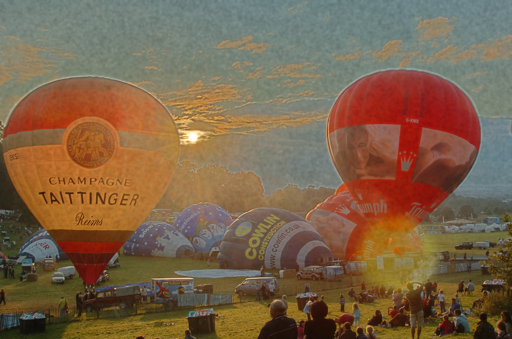
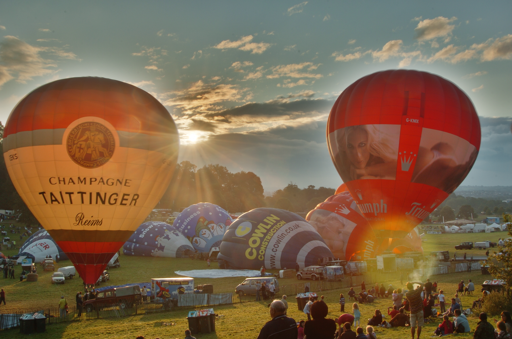
exposure fusion 到此为止, 下一步 bayers matting 和 grrab-cut

diff --git a/exposure_fusion/src/exposure_fusion.py b/exposure_fusion/src/exposure_fusion.py
@@ -11,107 +11,111 @@ import numpy
 
 
 def cv_show(image, message="crane"):
-    cv2.imshow(message, image)
-    cv2.waitKey(0)
-    cv2.destroyAllWindows()
+	cv2.imshow(message, image)
+	cv2.waitKey(0)
+	cv2.destroyAllWindows()
 
 
 
 
 def exposure_fusion(sequence, alphas=(1.0, 1.0, 1.0), best_illumination=0.5, sigma=0.2, eps=1e-12, 
-        use_lappyr=True, use_gaussi=False, layers_num=5, scale=2.0):
-    # 转化成 float 数据
-    sequence = numpy.stack([it.astype("float32") / 255 for it in sequence], axis=0)
-    S = len(sequence)
-    H, W, C = sequence[0].shape
-    # 准备一些中间变量
-    laplace_kernel = numpy.array(([0,  1, 0], [1, -4, 1], [0,  1, 0]), dtype="float32")
-    mse = lambda l, r: (l - r) * (l - r)
-    best_illumination = numpy.full((H, W), best_illumination, dtype='float32')
-    # 存放每张图像的权重图
-    weights = []
-    # 每张图像都求一个初始权重
-    for s in range(S):
-        # 从拉普拉斯求对比度
-        gray = cv2.cvtColor(sequence[s], cv2.COLOR_BGR2GRAY)
-        contrast = cv2.filter2D(gray, -1, laplace_kernel, borderType=cv2.BORDER_REPLICATE)
-        contrast = numpy.abs(contrast)
-        # 求饱和度
-        mean = numpy.mean(sequence[s], axis=-1)
-        saturation = numpy.sqrt(numpy.mean([mse(sequence[s][:, :, ch], mean) for ch in range(3)], axis=0))
-        # 求亮度
-        illumination = [numpy.exp(-0.5 * mse(sequence[s][:, :, ch], best_illumination) / (sigma * sigma)) for ch in range(3)]
-        illumination = numpy.prod(illumination, axis=0)
-        # 三者加权
-        cur_weight = numpy.power(contrast, alphas[0]) * numpy.power(saturation, alphas[1]) * numpy.power(illumination, alphas[2])
-        weights.append(cur_weight)
-    # 归一化
-    weights = numpy.stack(weights, axis=0)
-    weights += eps
-    weights_sum = numpy.sum(weights, axis=0)
-    weights /= numpy.expand_dims(weights_sum, axis=0)
-    # 这里要把 sequence 还原回来
-    sequence *= 255;
-    # 粗糙的融合
-    origin_fusion = numpy.sum(numpy.stack([weights, weights, weights], axis=-1) * sequence, axis=0)
-    origin_fusion = numpy.clip(origin_fusion, 0, 255).astype("uint8")
-    results = {"naive": origin_fusion}
-    # 是否用高斯
-    if(use_gaussi == True):
-        # 使用高斯模糊对 weights 做模糊
-        smoothed_weights = numpy.stack([cv2.GaussianBlur(w, (7, 7), 1.0) for w in weights], axis=0)
-        smoothed_fusion = numpy.sum(numpy.stack([smoothed_weights, smoothed_weights, smoothed_weights], axis=-1) * sequence, axis=0)
-        smoothed_fusion = numpy.clip(smoothed_fusion, 0, 255).astype("uint8")
-        results.update({"gaussi_smoothed": smoothed_fusion})
-    # 是否用拉普拉斯
-    if(use_lappyr == True):
-        # 根据最高分辨率的图像 high_res, 得到高度 layers 的高斯金字塔
-        def build_gaussi_pyramid(high_res, layers):
-            this_flash = [high_res]
-            for i in range(1, layers):
-                # 先对当前权重做高斯模糊, 然后下采样
-                blurred = cv2.GaussianBlur(this_flash[i - 1], (5, 5), 0.83)
-                blurred = blurred[::2, ::2]
-                this_flash.append(blurred)
-            return this_flash
-        # 根据已知的高斯金字塔, 从最底层开始上采样, 得到每一个尺度的 laplace 细节
-        def build_laplace_pyramaid(gaussi_pyramid, layers):
-            pyramid = [gaussi_pyramid[layers - 1]] # 最低分辨率也放到这里来, 不是细节, 但后面不用单独融合最底层的起始图像, 方便
-            for i in range(layers - 1, 0, -1):
-                # 先上采样, 然后对应的地方相减
-                size = (gaussi_pyramid[i - 1].shape[1], gaussi_pyramid[i - 1].shape[0])
-                upsampled = cv2.resize(gaussi_pyramid[i], size)
-                pyramid.append(gaussi_pyramid[i - 1] - upsampled)
-            pyramid.reverse() # 目前分辨率都是从高到低排列的
-            return pyramid
+		use_lappyr=True, use_gaussi=False, layers_num=5, scale=2.0):
+	# 转化成 float 数据
+	sequence = numpy.stack([it.astype("float32") / 255 for it in sequence], axis=0)
+	S = len(sequence)
+	H, W, C = sequence[0].shape
+	# 准备一些中间变量
+	laplace_kernel = numpy.array(([0,  1, 0], [1, -4, 1], [0,  1, 0]), dtype="float32")
+	mse = lambda l, r: (l - r) * (l - r)
+	best_illumination = numpy.full((H, W), best_illumination, dtype='float32')
+	# 存放每张图像的权重图
+	weights = []
+	# 每张图像都求一个初始权重
+	for s in range(S):
+		# 从拉普拉斯求对比度
+		gray = cv2.cvtColor(sequence[s], cv2.COLOR_BGR2GRAY)
+		contrast = cv2.filter2D(gray, -1, laplace_kernel, borderType=cv2.BORDER_REPLICATE)
+		contrast = numpy.abs(contrast)
+		# 求饱和度
+		mean = numpy.mean(sequence[s], axis=-1)
+		saturation = numpy.sqrt(numpy.mean([mse(sequence[s][:, :, ch], mean) for ch in range(3)], axis=0))
+		# 求亮度
+		illumination = [numpy.exp(-0.5 * mse(sequence[s][:, :, ch], best_illumination) / (sigma * sigma)) for ch in range(3)]
+		illumination = numpy.prod(illumination, axis=0)
+		# 三者加权
+		cur_weight = numpy.power(contrast, alphas[0]) * numpy.power(saturation, alphas[1]) * numpy.power(illumination, alphas[2])
+		weights.append(cur_weight)
+	# 归一化
+	normalize = lambda x: x / numpy.expand_dims(numpy.sum(x, axis=0), axis=0)
+	weights = numpy.stack(weights, axis=0)
+	weights += eps
+	weights = normalize(weights)
+	# 这里要把 sequence 还原回来
+	sequence *= 255;
+	# 粗糙的融合
+	origin_fusion = numpy.sum(numpy.stack([weights, weights, weights], axis=-1) * sequence, axis=0)
+	origin_fusion = numpy.clip(origin_fusion, 0, 255).astype("uint8")
+	results = {"naive": origin_fusion}
+	# 是否用高斯
+	if(use_gaussi == True):
+		# 使用高斯模糊对 weights 做模糊
+		smoothed_weights = numpy.stack([cv2.GaussianBlur(w, (101, 101), 17) for w in weights], axis=0)
+		smoothed_weights = normalize(smoothed_weights)
+		smoothed_fusion = numpy.sum(numpy.stack([smoothed_weights, smoothed_weights, smoothed_weights], axis=-1) * sequence, axis=0)
+		smoothed_fusion = numpy.clip(smoothed_fusion, 0, 255).astype("uint8")
+		results.update({"gaussi_smoothed": smoothed_fusion})
+	# 是否用拉普拉斯
+	if(use_lappyr == True):
 
-        # 求每张图的权重的高斯金字塔
-        sequence_weights_pyramids = [build_gaussi_pyramid(weights[s], layers_num) for s in range(S)]
-        # 求每张图的高斯金字塔, 以求 laplace
-        sequence_gaussi_pyramids = [build_gaussi_pyramid(sequence[s], layers_num) for s in range(S)]
-        # 求每张图的 laplace 金字塔
-        sequence_laplace_pyramids = [build_laplace_pyramaid(sequence_gaussi_pyramids[s], layers_num) for s in range(S)]
-        # 这里可以归一化
-        # 每一个尺度, 融合一系列图像的的 laplace 细节, 得到一个融合的 laplace 金字塔
-        fused_laplace_pyramid = [numpy.sum([sequence_laplace_pyramids[k][n] * 
-                numpy.atleast_3d(sequence_weights_pyramids[k][n]) for k in range(S)], axis=0) for n in range(layers_num)]
+		# 根据最高分辨率的图像 high_res, 得到高度 layers 的高斯金字塔
+		def build_gaussi_pyramid(high_res, layers):
+			this_flash = [high_res]
+			for i in range(1, layers):
+				# 先对当前权重做高斯模糊, 然后下采样
+				blurred = cv2.GaussianBlur(this_flash[i - 1], (5, 5), 0.83)
+				blurred = blurred[::2, ::2]
+				this_flash.append(blurred)
+			return this_flash
 
-        # 先从最底层的图像开始, 每次上采样都加上同等尺度的 laplace 细节
-        start = fused_laplace_pyramid[layers_num - 1]
-        for i in range(layers_num - 2, -1, -1):
-            upsampled = cv2.resize(start, (fused_laplace_pyramid[i].shape[1], fused_laplace_pyramid[i].shape[0]))
-            start = fused_laplace_pyramid[i] + upsampled
-        # 灰度值截断在 0-255 之间
-        start = numpy.clip(start, 0, 255).astype("uint8")
-        # 放到结果列表中
-        results.update({"laplace_pyramid": start})
+		# 根据已知的高斯金字塔, 从最底层开始上采样, 得到每一个尺度的 laplace 细节
+		def build_laplace_pyramaid(gaussi_pyramid, layers):
+			upsampled = gaussi_pyramid[layers - 1]
+			pyramid = [upsampled]
+			for i in range(layers - 1, 0, -1):
+				size = (gaussi_pyramid[i - 1].shape[1], gaussi_pyramid[i - 1].shape[0])
+				# upsampled = cv2.resize(upsampled, size) # 假如我一直上采样呢
+				upsampled = cv2.resize(gaussi_pyramid[i], size)
+				pyramid.append(gaussi_pyramid[i - 1] - upsampled)
+			pyramid.reverse() # 目前分辨率都是从高到低排列的
+			return pyramid
 
-    return results
+		# 求每张图的权重的高斯金字塔
+		sequence_weights_pyramids = [build_gaussi_pyramid(weights[s], layers_num) for s in range(S)]
+		# 求每张图的高斯金字塔, 以求 laplace
+		sequence_gaussi_pyramids = [build_gaussi_pyramid(sequence[s], layers_num) for s in range(S)]
+		# 求每张图的 laplace 金字塔
+		sequence_laplace_pyramids = [build_laplace_pyramaid(sequence_gaussi_pyramids[s], layers_num) for s in range(S)]
+		# 这里可以归一化
+		# 每一个尺度, 融合一系列图像的的 laplace 细节, 得到一个融合的 laplace 金字塔
+		fused_laplace_pyramid = [numpy.sum([sequence_laplace_pyramids[k][n] * 
+				numpy.atleast_3d(sequence_weights_pyramids[k][n]) for k in range(S)], axis=0) for n in range(layers_num)]
+
+		# 先从最底层的图像开始, 每次上采样都加上同等尺度的 laplace 细节
+		start = fused_laplace_pyramid[layers_num - 1]
+		for i in range(layers_num - 2, -1, -1):
+			upsampled = cv2.resize(start, (fused_laplace_pyramid[i].shape[1], fused_laplace_pyramid[i].shape[0]))
+			start = fused_laplace_pyramid[i] + upsampled
+		# 灰度值截断在 0-255 之间
+		start = numpy.clip(start, 0, 255).astype("uint8")
+		# 放到结果列表中
+		results.update({"laplace_pyramid": start})
+
+	return results
 
 
 
-images_dir = "../images/input/7"
-save_dir = "../images/output/7"
+images_dir = "../images/input/5"
+save_dir = "../images/output/5"
 os.makedirs(save_dir, exist_ok=True)
 
 # 读取图片
@@ -119,9 +123,14 @@ images_list = [os.path.join(images_dir, it) for it in os.listdir(images_dir)]
 sequence = numpy.stack([cv2.imread(name) for name in images_list])
 
 # 曝光融合
-fused_results = exposure_fusion(sequence, use_lappyr=True, use_gaussi=True, layers_num=7)
+fused_results = exposure_fusion(
+	sequence, 
+	use_lappyr=True, 
+	use_gaussi=True, 
+	layers_num=7,
+	alphas=(1.0, 1.0, 1.0))
 
 # 展示与保存
 for l, r in fused_results.items():
-    cv_show(r, l)
-    cv2.imwrite(os.path.join(save_dir, l + ".png"), r, [cv2.IMWRITE_PNG_COMPRESSION, 0])
+	cv_show(r, l)
+	cv2.imwrite(os.path.join(save_dir, l + ".png"), r, [cv2.IMWRITE_PNG_COMPRESSION, 0])
